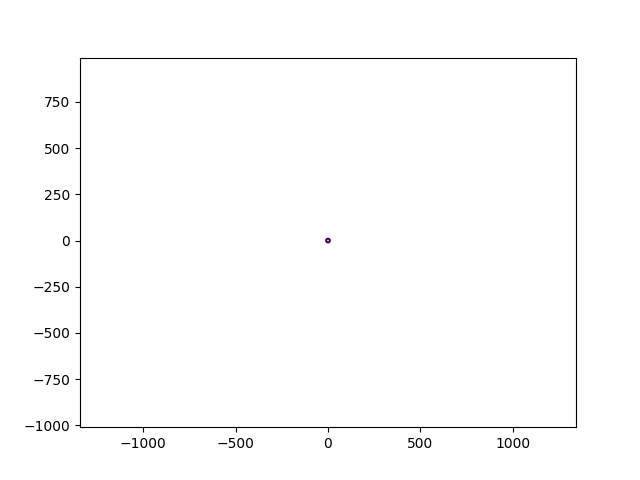
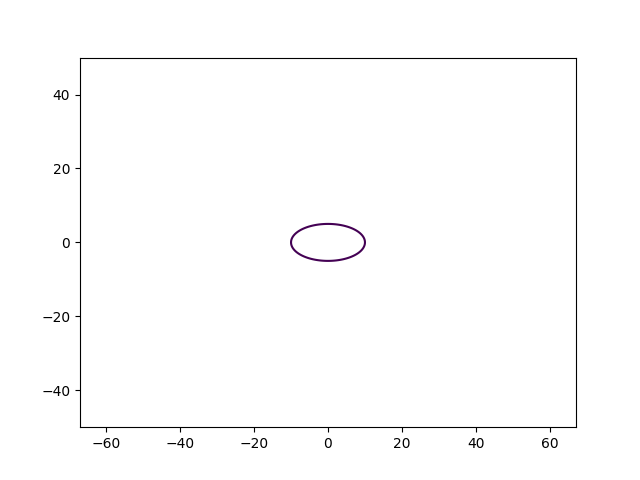
mgkjbkj

diff --git a/lab_6_task_3.py b/lab_6_task_3.py
@@ -5,13 +5,13 @@ def ellips(x_min, x_max, N, a = 10, b = 5):
     x = np.linspace(x_min, x_max, N)
     y = np.linspace(x_min, x_max, N)
 
-
-
     x, y = np.meshgrid(x, y)
 
     fxy = x**2 / a**2 + y**2 / b**2 - 1
 
-    plt.contour(x, y, fxy, levels=[1])
+    plt.contour(x, y, fxy, levels=[0])
     plt.axis('equal')
 
     plt.savefig('fig_lab_3.png')
+
+ellips(-50, 50, 1000)
